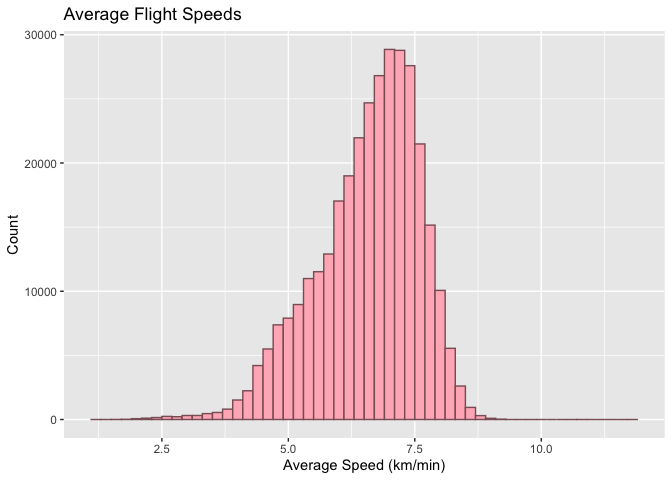
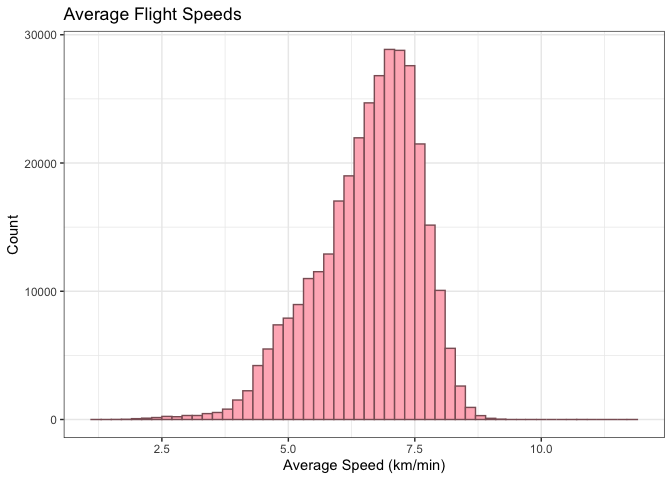
homework 4

diff --git a/hmk_04_data_frames.md b/hmk_04_data_frames.md
@@ -36,7 +36,10 @@ LGA_short_16 <- flights |>
   filter(origin == "LGA" & day == 16 & distance < 2000, na.rm = TRUE)
 
 ggplot(data = LGA_short_16, mapping = aes(x = distance, y = air_time)) +
-  geom_point(color="chartreuse4")
+  theme_bw() +
+  geom_point(color="steelblue3", size = 2) +
+  geom_point(shape = "circle open", color = "steelblue4", size = 2) +
+  labs(x = "Distance (km)", y = "Air time (min)")
 ```
 
 ![](hmk_04_data_frames_files/figure-commonmark/unnamed-chunk-1-1.png)
@@ -79,6 +82,7 @@ avg_speed <- flights |>
     avg.speed = distance / air_time)
 
 ggplot(data = avg_speed, mapping = aes(x = avg.speed)) +
+         theme_bw() +
          geom_histogram(binwidth = 0.2, color="lightpink4", fill="lightpink") +
          labs(x = "Average Speed (km/min)", y = "Count", title = "Average Flight Speeds")
 ```
